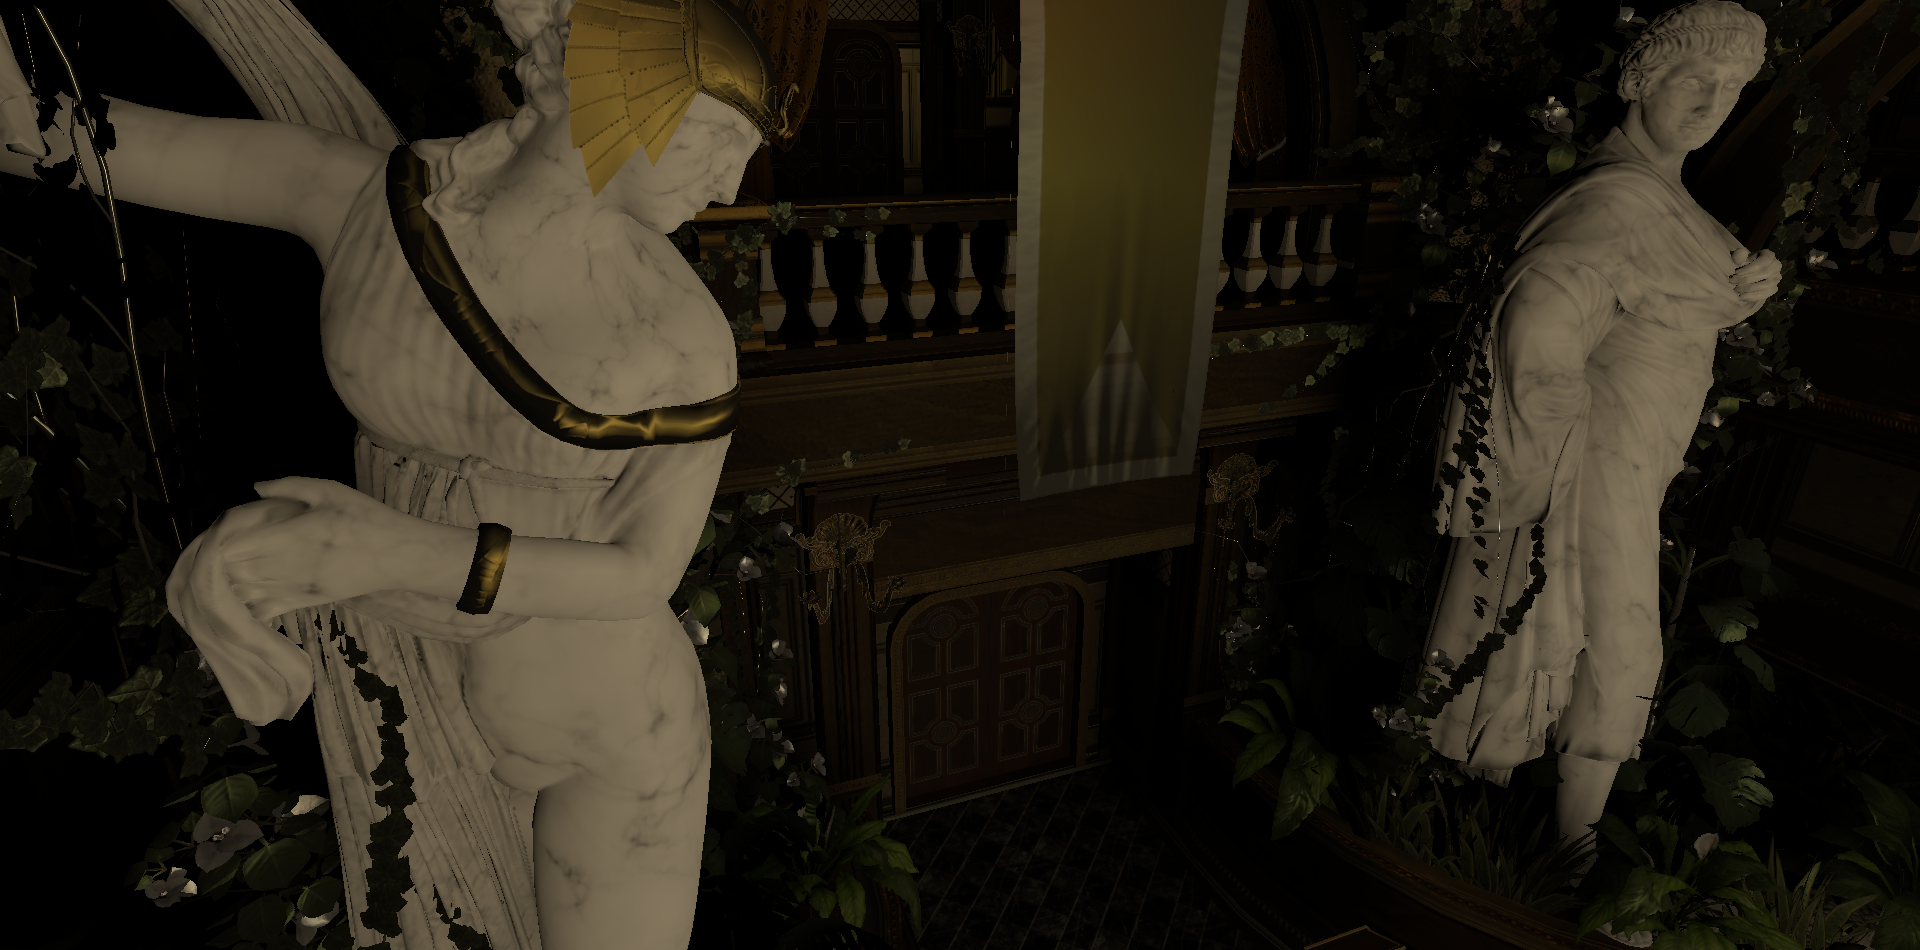
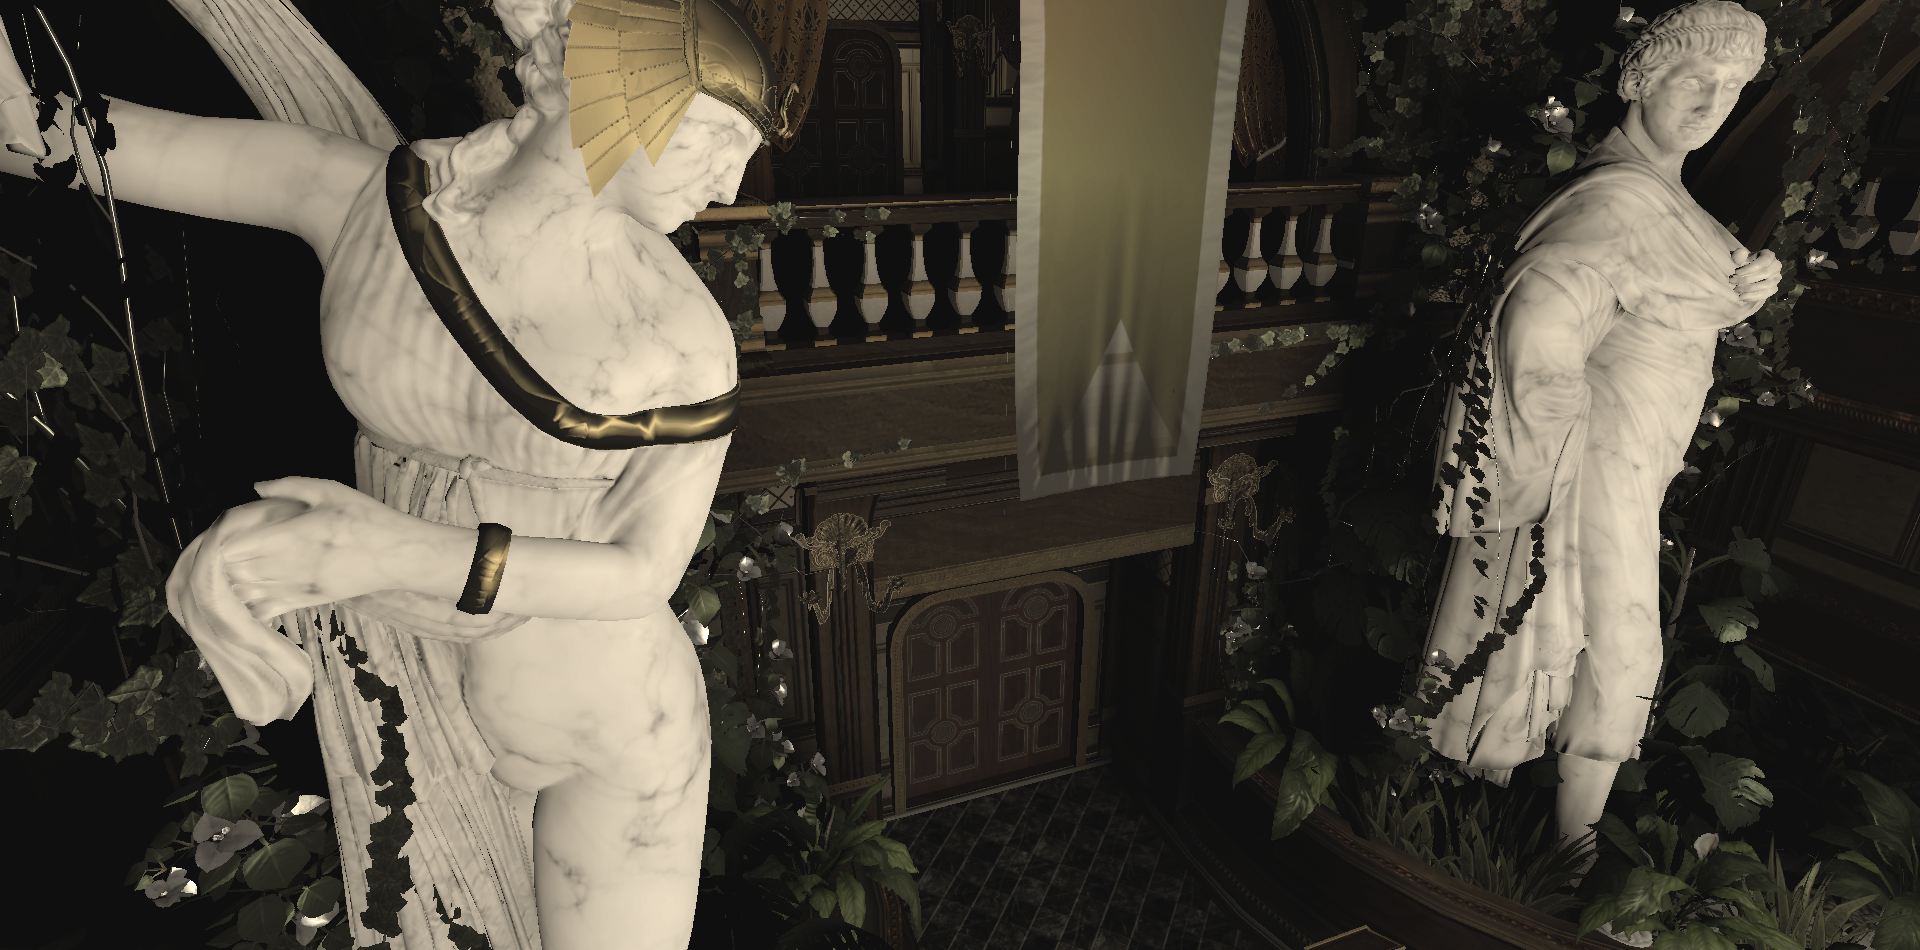
[Evaluation] brighter SH images. Wrote a tiny bit about SH config quality.

diff --git a/latex/Evaluation.tex b/latex/Evaluation.tex
@@ -399,33 +399,37 @@ This is more inaccurate with \emph{higher} specular environment and lower RSM re
 \caption{Comparison of a (diffuse only) scene rendered with the Mitsuba \cite{bib:mitsuba} path-tracer and with our realtime solution.}
 \label{fig:groundtruthcomparision}
 \end{figure}
-\autoref{fig:groundtruthcomparision} shows a comparison between the results of a pathtracer and our technique of a simple diffuse-only scene.
+\autoref{fig:groundtruthcomparision} shows renderings of a simple diffuse-only scene computed using the Mitsuba's pathtracer \cite{bib:mitsuba} and our technique.
 Please note that we were not able to include such groundtruth images for the other scenes since it is rather difficult to share complex model and material setups in such way that fundamentally different renderers interpret them equally.
-Due to the limited view range we chose used a single adress volume with a resolution of $128^3$, other than that we use the default settings but without specular lighting since we were not able to replicate our BRDF setup in the Mitsuba \cite{bib:mitsuba} path-tracer.
-With this high cache frequency our approach is able to hint most shadowing details however fails to compute them accurately.
+We chose used a single address volume with a resolution of $128^3$, other than that we used the default settings without specular lighting since we were not able to replicate our BRDF setup in the path-tracer.
+Using this rather high cache frequency, our approach is able to depict most shadowing details, however fails to compute them accurately.
 The shadows are generally too bright and - not easily visible due to the tonemapping - tend to darken wide regions that should not be shadowed at all.
 The simple low frequent lighting in this scene though, is no problem for our approach in general.
-\todo{concluding notes on how well it performs against pathtracing..?}
+Generally speaking, our technique is not able to reproduce high frequency changes in indirect lighting due to the rather sparse distribution of caches.
 
 \subsection{SH Band Comparision}
-\autoref{fig:shcomparision}
-\todo{write on SH01 vs SH012}
 \begin{figure}[h]
 \centering
-\begin{subfigure}[b]{0.8\textwidth}
+\begin{subfigure}[b]{1.0\textwidth}
 \includegraphics[width=\textwidth]{eva/sh/sh01}
 \caption{2 SH bands.}
 \end{subfigure}
 \\
-\begin{subfigure}[b]{0.8\textwidth}
+\begin{subfigure}[b]{1.0\textwidth}
 \includegraphics[width=\textwidth]{eva/sh/sh012}
 \caption{3 SH bands.}
 \end{subfigure}
 \caption{Different spherical harmonics basis for diffuse diffuse lighting in the \dataset{Republique} scene.}
 \label{fig:shcomparision}
 \end{figure}
+The quality difference between using two or three spherical harmonics bands for diffuse lighting is often not very high.
+\autoref{fig:shcomparision} shows an example with both negligible  and rather good visible differences.
+While the shading at the left statue changes only slightly, the right statue is more contrasted.
+Generally, the setting with more SH bands displays crispier transitions between dark and bright zones but does not necessarily lead to more variations as for example on the strongly normal-mapped flag in the middle of the scene.
+For two or three SH bands we found almost no ringing artifacts in our test cases.
 
-\todo{sth. on cascading / cache density}
+
+\todo{sth. on cascading / cache density ?}
 
 \subsection{Indirect Shadow}
 \autoref{fig:shadowcomparision:resolutions} shows indirect shadow for different CAV and voxel resolutions.
